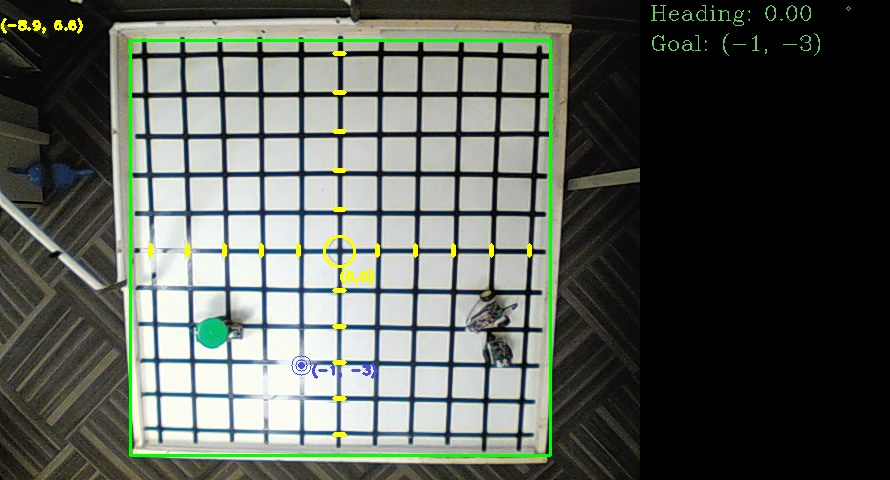
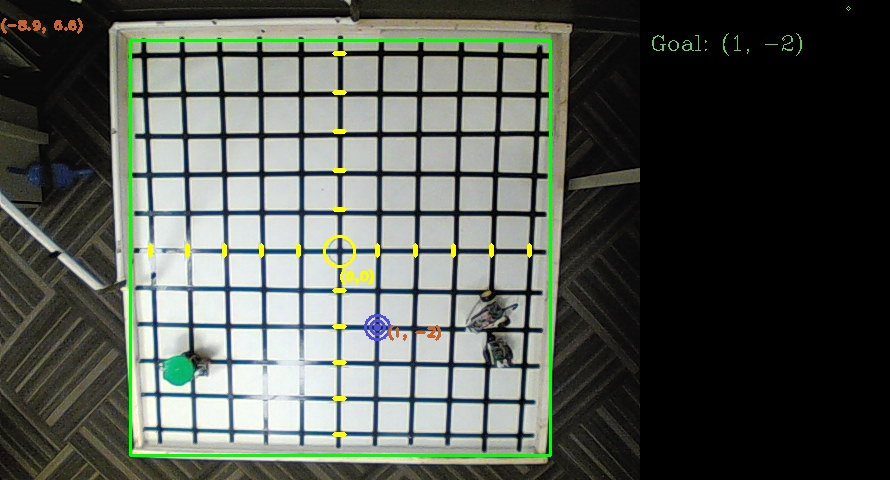
updates.

diff --git a/RobotCode/script1.py b/RobotCode/script1.py
@@ -2,87 +2,125 @@
 import serial
 import time
 import threading
-import sys
-import select
 
-arduino = serial.Serial("/dev/ttyACM0", 9600)
-arduino.flush()
-arduino.flush()
-#arduino.write(bytes("1-1_*".encode('ascii')))
+def TryParseInt(val):
+    try:
+        return int(val)
+    except ValueError:
+        return False
 
-userInput = ""
-tokens = []
-cmds = []
 
-while(True):
-    arduino.flushInput()
-    arduino.flushOutput()
-    userInput = input(":")
-    if(userInput != ""):
-        if userInput == "manual":
-            sequence = "6-0"
-            arduino.flushInput()
-            arduino.flushOutput()
+
+class Controller(object):
+    def __init__(self, port):
+        self.responseThread = threading.Thread(target=self.GetResponse)
+        self.arduino = serial.Serial(port, 9600)
+        
+        self.userInput = ""
+        self.tokens = []
+        self.cmds = []
+        self.sequence = ""
+        self.finished = False
+        self.validSequence = False
+
+    def GetResponse(self):
+        ardIn = ""
+        while(not self.finished):
+            if(self.arduino.inWaiting() > 0):
+                ardIn = self.arduino.readline().decode("ascii")
+                ardIn = ardIn.replace("\r\n", "")
+                print("   ^ " + ardIn + " ^")
+
+
+    def ManualMode(self):
+        self.sequence = "6-0"
+        time.sleep(.1)
+        self.arduino.write(bytes(self.sequence.encode('ascii')))
+        time.sleep(1.5)
+        while(True):
             time.sleep(.1)
-            arduino.write(bytes(sequence.encode('ascii')))
-            time.sleep(1.5)
-            while(True):
-                time.sleep(.1)
-                if(arduino.inWaiting() > 0):
-                    print(arduino.readline())
-                    arduino.flushInput()
-                    arduino.flushOutput()
-                userInput = input(">")
-                arduino.flushInput()
-                time.sleep(.1)
-                arduino.write(bytes(userInput.encode('ascii')))
-                if(userInput == "q"):
-                    userInput = ""
-                    break
+            userInput = input(">")
+            time.sleep(.1)
+            self.arduino.write(bytes(self.userInput.encode('ascii')))
+            if(userInput == "q"):
                 userInput = ""
-                arduino.flushOutput()
-        elif userInput == "Q":
-            break
-        else:
-            userIn = userInput.split(',')
-            for a in userIn:
-                t = a.split(' ')
-                for b in t:
-                    if b is not "":
-                        tokens.append(b)
-            for val in tokens:
-                x = ""
-                if(val == "forward"):
-                    x = "1-"
-                elif(val == "back"):
-                    x = "2-"
-                elif(val == "left"):
-                    x = "3-90_"
-                elif(val == "right"):
-                    x = "4-90_"
-                elif(val == "stop"):
-                    x = "*"
-                else:
-                    x = str(val + "_")
-                cmds.append(x)
-
-            for val in cmds:
-                print(val)
-            sequence = "".join(cmds)
-            #print("sending: " + sequence)
-        arduino.flush()
-        arduino.write(bytes(sequence.encode('ascii')))
-        time.sleep(1)
-        userInput == ""
-        cmds.clear()
-        sequence = ""
-        for val in cmds:
-            print(val)
-        print(sequence)
-        print(userInput)
-    #if(arduino.inWaiting() > 0):
-    #    print("something to read.")
-    #    print(arduino.readline())
+                break
 
 
-arduino.close()
+    def SequenceMode(self):
+        while(not self.finished):
+            self.userInput = input(":")
+            if(self.userInput == "manual"):
+                self.ManualMode()
+            elif(self.userInput == "Q"):
+                self.finished = True
+                self.responseThread.join()
+                break
+            else:
+                self.GenerateCommandSequence()
+                if(self.validSequence):
+                    print("sent: " + self.sequence)
+                    self.arduino.write(bytes(self.sequence.encode('ascii')))
+            self.userInput = ""
+            self.sequence = ""
+            self.tokens = []
+            self.cmds = []
+                    
+
+
+    def GenerateCommandSequence(self):
+        userIn = self.userInput.split(',')
+        for a in userIn:
+            t = a.split(' ')
+            for b in t:
+                if b is not "":
+                    self.tokens.append(b)
+        for val in self.tokens:
+            x = ""
+            if(val == "forward"):
+                x = "1-"
+            elif(val == "back"):
+                x = "2-"
+            elif(val == "left"):
+                x = "3-90_"
+            elif(val == "right"):
+                x = "4-90_"
+            elif(val == "stop"):
+                x = "*"
+            elif(TryParseInt(val) != False):
+                x = val
+            else:
+                print("couldn't parse the commands. check your entry.")
+                self.validSequence = False
+                return
+            self.cmds.append(x)
+        self.sequence = "".join(self.cmds)
+        self.validSequence = True
+        return
+
+
+
+
+
+
+
+
+if (__name__ == "__main__"):
+    try:
+        c = Controller("/dev/ttyACM0")
+    except:
+        try:
+            c = Controller("/dev/ttyACM1")
+        except:
+            print("couldnt open arduino port.")
+
+    c.responseThread.start()
+    c.SequenceMode()
+    c.arduino.close()
+    print("finished.")
+
+
+
+
+
+

diff --git a/ApplicationCode/RobotTracker.py b/ApplicationCode/RobotTracker.py
@@ -45,6 +45,11 @@ class GridSpace:
     square[2] = [550, 455]
     square[3] = [550, 40]
 
+    maskk = frame.copy()
+    for i in range(0, len(frame[0])):
+        for j in range(0, len(frame)):
+            if(i < 125 or i > 555 or j < 32 or j > 460):
+                maskk[j][i] = (0,0,0)
 
     def FrameOverlay(self, frame):
         ''' Builds the general output window.
@@ -58,6 +63,9 @@ class GridSpace:
         cv2.drawContours(self.frame, [self.square], -1, (0, 255, 0), 2)
         cv2.circle(self.frame, (self.frameCenter[0],self.frameCenter[1]), 15, (0,255,255), 2)
 
+        #cv2.bitwise_xor(self.maskk, self.frame, self.frame, mask=None)
+        
+        
         j = 150
         for i in range(0, 5):
             cv2.line(self.frame, (j, 245), (j, 255), (0, 255, 255), 3)
@@ -77,13 +85,6 @@ class GridSpace:
         for i in range(0, 5):
             cv2.line(self.frame, (334, k), (344, k), (0, 255, 255), 3)
             k += 36
-        
-##        for i in range(0, len(frame[0])):
-##            for j in range(0, len(frame)):
-##                if(i < 125 or i > 555 or j < 32 or j > 460):
-##                    frame[j][i] = (0,0,0)
-##
-##        print("something")
 
         return
 
@@ -161,8 +162,10 @@ class Robot(GridSpace):
 '''
     
     def __init__(self):
-        self.lowColor = (60, 140, 0)
-        self.highColor = (157, 200, 130)        
+        self.lowColor = (87, 146, 0)
+        self.highColor = (150, 208, 52)
+        #self.lowColor = (60, 140, 0)
+        #self.highColor = (157, 200, 130)        
         #self.lowColor = (111,150,48)
         #self.highColor = (145,185,128)        
         #self.lowColor = (77,162,102)
@@ -227,7 +230,7 @@ class Robot(GridSpace):
         contours = cv2.findContours(frame, cv2.RETR_EXTERNAL, cv2.CHAIN_APPROX_SIMPLE)[-2]
         if(len(contours) > 0):
             cont = max(contours, key=cv2.contourArea)
-            if(cv2.contourArea(cont) > 80 and cv2.contourArea(cont) < 160):
+            if(cv2.contourArea(cont) > 80 and cv2.contourArea(cont) < 700):
                 rect = cv2.boundingRect(cont)
                 if(abs(self.robot[0] - rect[0]) < 2 or abs(self.robot[1] - rect[1]) < 2):
                     return 0
@@ -249,7 +252,7 @@ class Robot(GridSpace):
         self.rLoc = self.CoordinatesToLocation(self.robot)
             
         cv2.putText(self.frame, "(0,0)", (self.frameCenter[0],self.frameCenter[1]+30), cv2.FONT_HERSHEY_PLAIN, .95, (0,255,250), 2)
-        cv2.putText(self.frame, "(%.1f" % self.rLoc[0] + ", %.1f)" %self.rLoc[1], (self.robot[0],self.robot[1]+30), cv2.FONT_HERSHEY_PLAIN, .95, (50,100,200), 2)
+        cv2.putText(self.frame, "(%.1f" % self.rLoc[0] + ", %.1f)" %self.rLoc[1], (self.robot[0]+15,self.robot[1]+30), cv2.FONT_HERSHEY_PLAIN, .95, (50,100,200), 2)
         
         #cv2.putText(self.textArea, "Heading: %.2f" % self.ellipse[2], (10, 20), 3, .7, (100,200,100), 1)
         cv2.circle(self.textArea, (208,8), 2, (100,200,100), 1)
@@ -260,7 +263,7 @@ class Robot(GridSpace):
             self.ellipse = cv2.fitEllipse(self.contour)
             w = self.ellipse[1][0] * 1.25
             l = self.ellipse[1][1] * 1.25
-            cv2.ellipse(self.frame, (self.ellipse[0],(w,l),self.ellipse[2]), (0,255,0), 1)
+            cv2.ellipse(self.frame, (self.ellipse[0],(w,l),self.ellipse[2]), (0,255,0), 2)
 
         if(self.goalFound):
             cv2.putText(self.textArea, "Goal Found!", (10, 100), 3, .7, (100,200,100), 1)
